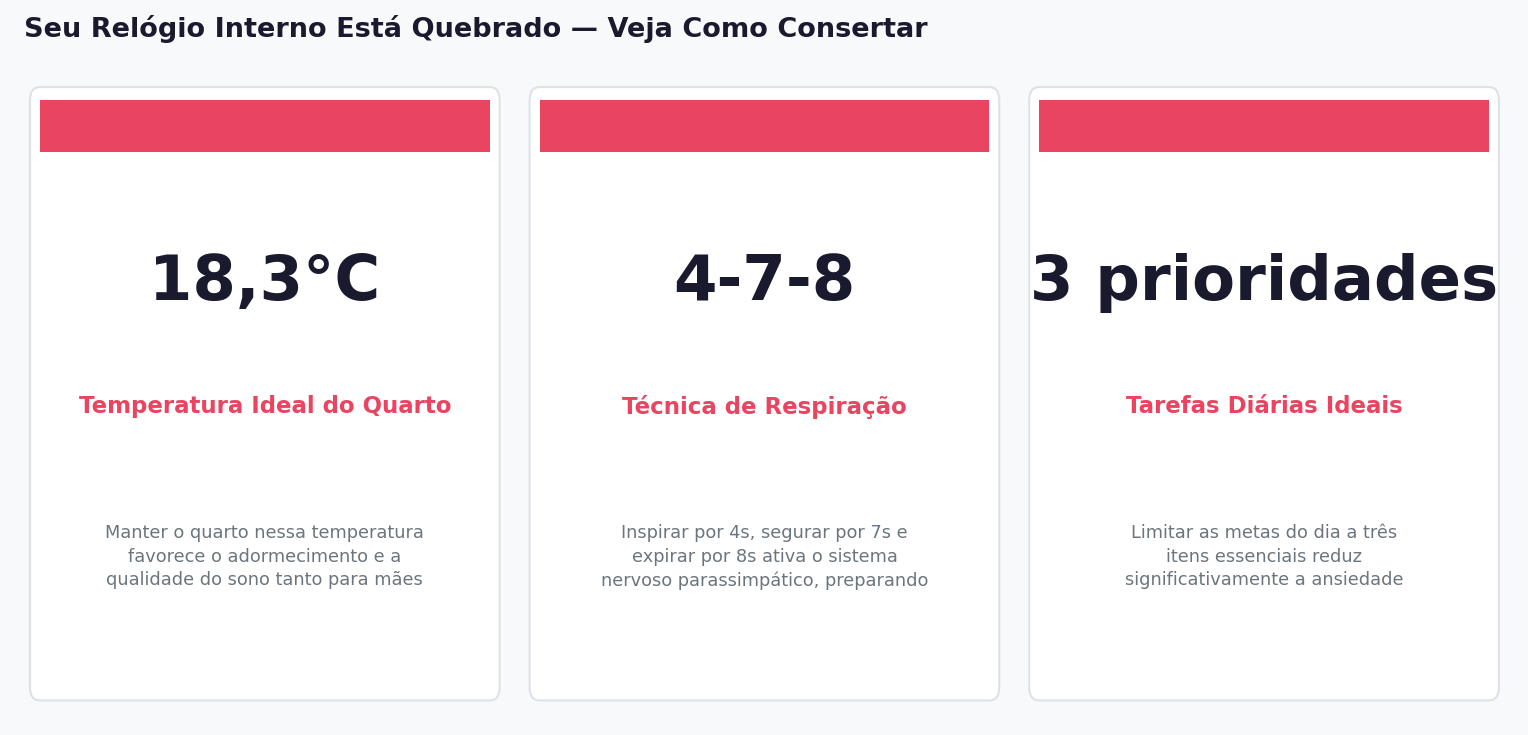
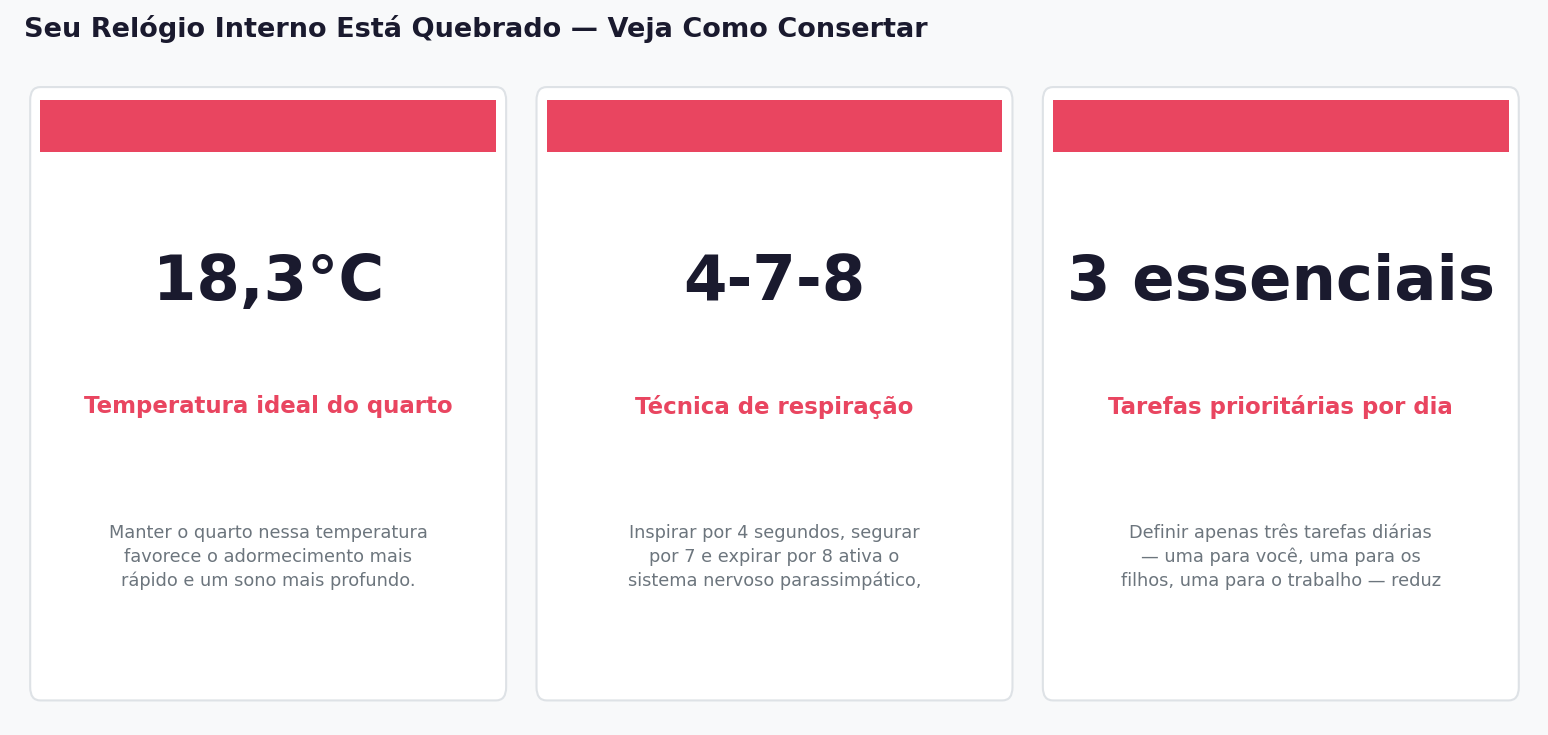
Add: Seu Relógio Interno Está Quebrado — Veja Como Consertar

diff --git a/2026-05-01-seu-relogio-interno-esta-quebrado-veja-como-consertar.html b/2026-05-01-seu-relogio-interno-esta-quebrado-veja-como-consertar.html
@@ -189,7 +189,7 @@
     <main class="body-card">
 
       <!-- Hook -->
-      <p class="hook">Imagine que o seu corpo tem um relógio interno — sofisticado, preciso, ajustado por milhões de anos de evolução. Agora imagine que alguém jogou esse relógio no chão, pisou em cima e foi embora. É exatamente isso que a rotina caótica da maternidade faz com o seu ciclo circadiano. A boa notícia: com alguns ajustes estratégicos, você consegue recalibrar esse relógio — mesmo com uma criança pequena em casa.</p>
+      <p class="hook">Imagine que seu corpo é uma orquestra: quando o maestro perde o ritmo, cada músico toca no seu próprio tempo, e o resultado é caos. É exatamente isso que acontece quando o ciclo circadiano — o relógio biológico interno que regula sono, hormônios e energia — se desregula. Para mães que vivem entre fraldas, reuniões e listas intermináveis de tarefas, esse caos silencioso pode ser a raiz de um cansaço que nenhuma xícara de café consegue resolver.</p>
 
       <!-- Divider -->
       <div class="divider">
@@ -200,30 +200,30 @@
       <!-- Insights -->
       
       <div class="insight">
-        <h2>O Que é o Ciclo Circadiano e Por Que Ele Importa Para Você</h2>
-        <p>O ciclo circadiano é um ritmo biológico de aproximadamente 24 horas coordenado por uma pequena estrutura no cérebro chamada núcleo supraquiasmático. Ele regula temperatura corporal, produção de hormônios como melatonina e cortisol, sono e vigília. Pense nele como o maestro de uma orquestra: quando ele está em sincronia, tudo flui. Quando ele desafina, o caos se instala.
+        <h2>O que é o ciclo circadiano e por que ele importa para você</h2>
+        <p>O ciclo circadiano é um ritmo biológico de aproximadamente 24 horas, coordenado por uma pequena estrutura no cérebro chamada núcleo supraquiasmático. Pense nele como um termostato interno que programa quando você deve sentir sono, quando seu metabolismo acelera e quando seus hormônios entram em ação. O problema é que esse sistema é extremamente sensível a mudanças de rotina — e a maternidade é, por definição, uma grande mudança de rotina.
 
-Quando esse ritmo é desregulado — o que acontece com frequência na maternidade, entre noites interrompidas, mamadas e demandas sem fim — as consequências vão muito além do cansaço. Estudos apontam que a desregulação circadiana está associada a depressão, ansiedade, problemas de memória e até risco aumentado de doenças crônicas como diabetes e obesidade.
+Quando o ciclo circadiano é perturbado de forma consistente — por noites mal dormidas, horários irregulares de sono ou excesso de luz artificial à noite — as consequências vão muito além do cansaço. Estudos associam a desregulação circadiana a problemas de memória, alterações de humor, ansiedade, e até maior risco de doenças crônicas como diabetes e depressão. Ou seja: não é frescura, é fisiologia.
 
-O gatilho mais poderoso para sincronizar esse relógio é simples e gratuito: a luz solar pela manhã. A exposição à luz natural ativa receptores nos olhos que sinalizam ao cérebro que é hora de despertar e iniciar as funções do dia. Então, mesmo que você tenha dormido mal, abrir as janelas ou dar uma caminhada curta logo cedo pode ser o primeiro passo para reconectar seu corpo ao ritmo natural da vida.</p>
+A boa notícia é que o relógio interno responde muito bem a sinais simples do ambiente — e você pode começar a reajustá-lo hoje, sem precisar de grandes mudanças. Luz solar pela manhã, horários regulares para deitar e acordar, e uma rotina de relaxamento antes de dormir são âncoras poderosas para esse sistema. São pequenos gestos, mas para o seu cérebro, são comandos claros.</p>
       </div>
       
       <div class="insight">
-        <h2>A Rotina que Ninguém Te Contou: Sincronize Seu Sono com o do Seu Filho</h2>
-        <p>Uma das estratégias mais contraintuitivas — e mais eficazes — para mães é observar os padrões de sono do filho e construir a própria rotina em torno deles. Se você perceber que seu bebê sempre cochila por volta das 14h durante 45 minutos, esse é o seu sinal para também se deitar. Dormir nos mesmos horários que seu filho não é preguiça — é uma decisão estratégica de saúde.
+        <h2>Sincronize seu sono com o do seu filho — e peça ajuda sem culpa</h2>
+        <p>Uma das estratégias mais subestimadas para mães é simples: dormir quando o bebê dorme. Parece óbvio, mas a realidade é que muitas mães usam esse tempo para lavar louça, responder e-mails ou finalmente sentar em silêncio com o celular. O problema é que o corpo não acumula repouso — cada hora de sono perdida é uma hora perdida de verdade.
 
-Além disso, especialistas reforçam que a qualidade dos cochilos do seu bebê influencia diretamente a flexibilidade da sua rotina noturna. Quanto melhor ele dorme de dia, mais tarde pode ser o horário de dormir à noite — o que te dá margem para adaptar a rotina à realidade de uma mãe que trabalha. Criar um ambiente propício ao descanso do bebê (quarto escuro, temperatura em torno de 18°C, som ambiente calmo) é investir no seu próprio sono também.
+Além de alinhar seus cochilos aos do seu filho, observar os padrões de sono dele é uma ferramenta poderosa. Ao identificar em que horários ele costuma adormecer e por quanto tempo dura o cochilo, você pode organizar sua própria rotina em torno desses janelas de descanso. E quanto melhor forem os cochilos do seu bebê — em qualidade e previsibilidade — mais flexível e descansada pode ser a sua noite.
 
-Um aviso importante: consistência é a palavra-chave. Ir para a cama em horários muito diferentes de uma noite para outra desequilibra o ciclo circadiano tanto quanto não dormir. O corpo aprende com a repetição — e uma rotina previsível reduz a ansiedade, para você e para seu filho.</p>
+Dividir as tarefas noturnas com o parceiro ou parceira não é um pedido de ajuda: é uma decisão de saúde. Pedir que alguém nina o bebê após a amamentação ou troque uma fralda de madrugada não diminui ninguém — pelo contrário, protege a saúde mental de quem cuida. Afinal, mãe descansada cuida melhor.</p>
       </div>
       
       <div class="insight">
-        <h2>Três Alavancas Práticas: Movimento, Ritual e Delegação</h2>
-        <p>Exercício diário — mesmo que seja uma caminhada curta com o carrinho de bebê — tem impacto comprovado na qualidade do sono. A atividade física reduz cortisol (o hormônio do estresse), libera endorfinas e ajuda o corpo a sentir a diferença entre dia e noite. Não precisa ser academia: brincar no parque com as crianças conta como movimento.
+        <h2>Crie sinais claros para o seu corpo: é hora de dormir</h2>
+        <p>O corpo humano não muda de marcha instantaneamente — ele precisa de uma rampa de desaceleração. É por isso que criar uma rotina de relaxamento antes de dormir é uma das recomendações mais consistentes da ciência do sono. Pode ser uma respiração lenta (a técnica 4-7-8 — inspire por 4, segure por 7, expire por 8 — é surpreendentemente eficaz), um chá de camomila, leitura leve ou alongamento suave. O ritual não precisa ser longo: 15 a 20 minutos já são suficientes para sinalizar ao cérebro que chegou a hora.
 
-Criar um ritual noturno de desaceleração é igualmente poderoso. Escolha algo que funcione para você — leitura, respiração lenta (a técnica 4-7-8 é simples: inspire por 4 segundos, segure por 7, expire por 8), chá de camomila ou erva-cidreira, meditação guiada de 5 minutos. O objetivo é mandar um sinal claro para o seu sistema nervoso: 'o trabalho acabou, é hora de descansar'. Evite telas com luz azul, alimentos gordurosos e cafeína nas horas antes de dormir.
+O ambiente também faz parte desse sinal. Apagar as luzes do quarto antes de dormir não é apenas uma questão de conforto — a escuridão dispara a produção de melatonina, o hormônio que induz o sono. Da mesma forma, evitar telas nesse período e manter a temperatura do quarto em torno de 18°C cria condições físicas favoráveis para um sono mais profundo e reparador.
 
-Por fim, a estratégia mais subestimada: delegar. Dividir as tarefas noturnas com o parceiro ou parceira — ninar o bebê após a amamentação, trocar fraldas — não é pedir favor, é manutenção básica da sua saúde. Uma mãe descansada cuida melhor, pensa melhor e vive melhor. E para as tarefas do dia a dia, experimente a 'regra dos três': defina apenas três prioridades diárias (uma para você, uma para os filhos, uma para o trabalho) e vá para a cama sabendo que fez o essencial.</p>
+E uma dica bônus para quem amamenta: a amamentação libera ocitocina, o 'hormônio do amor', que causa relaxamento e reduz o cortisol — o hormônio do estresse. Amamentar logo antes de dormir pode ser, literalmente, uma dose natural de tranquilidade. Use isso a seu favor.</p>
       </div>
       
 
@@ -240,15 +240,15 @@ Por fim, a estratégia mais subestimada: delegar. Dividir as tarefas noturnas co
         <p class="section-label">Key Numbers</p>
         
         <p class="data-point">
-          <strong>18,3°C — Temperatura Ideal do Quarto:</strong> Manter o quarto nessa temperatura favorece o adormecimento e a qualidade do sono tanto para mães quanto para bebês.
+          <strong>18,3°C — Temperatura ideal do quarto:</strong> Manter o quarto nessa temperatura favorece o adormecimento mais rápido e um sono mais profundo.
         </p>
         
         <p class="data-point">
-          <strong>4-7-8 — Técnica de Respiração:</strong> Inspirar por 4s, segurar por 7s e expirar por 8s ativa o sistema nervoso parassimpático, preparando o corpo para o sono em minutos.
+          <strong>4-7-8 — Técnica de respiração:</strong> Inspirar por 4 segundos, segurar por 7 e expirar por 8 ativa o sistema nervoso parassimpático, reduzindo a ansiedade antes de dormir.
         </p>
         
         <p class="data-point">
-          <strong>3 prioridades — Tarefas Diárias Ideais:</strong> Limitar as metas do dia a três itens essenciais reduz significativamente a ansiedade noturna e melhora a qualidade do sono.
+          <strong>3 essenciais — Tarefas prioritárias por dia:</strong> Definir apenas três tarefas diárias — uma para você, uma para os filhos, uma para o trabalho — reduz a ansiedade noturna e melhora a qualidade do sono.
         </p>
         
       </div>
@@ -256,13 +256,13 @@ Por fim, a estratégia mais subestimada: delegar. Dividir as tarefas noturnas co
       <!-- Takeaway -->
       <div class="takeaway">
         <p class="section-label">The Takeaway</p>
-        <p>O seu corpo não é uma máquina que pode ignorar sinais de exaustão indefinidamente — ele tem um relógio biológico que precisa de consistência, luz e descanso para funcionar. Regularizar o ciclo circadiano não exige perfeição nem grandes mudanças de uma vez: começa com pequenos gestos repetidos todo dia, como abrir as janelas pela manhã, criar um ritual noturno e aceitar ajuda. Cuidar do seu sono não é um luxo — é o alicerce de tudo mais que você faz.</p>
+        <p>Seu cansaço tem uma causa biológica identificável — e ela pode ser tratada com consistência, não com sacrifício. Regulando os sinais que seu corpo recebe (luz, horários, rituais e suporte de quem está ao seu lado), você pode reconectar seu relógio interno e começar a dormir de verdade. Você não precisa de mais horas no dia — precisa de melhores horas na cama.</p>
       </div>
 
       <!-- CTA -->
       <div class="cta-section">
-        <p>Escolha uma das estratégias desta newsletter e aplique hoje à noite — não amanhã, hoje.</p>
-        <a href="#" class="cta-button">Comece pelo seu ritual noturno</a>
+        <p>Escolha um ritual de 15 minutos para experimentar esta noite — respiração, chá ou leitura — e anote como você se sente amanhã de manhã.</p>
+        <a href="https://quinello.github.io/newsletter-archive/2026-05-01-seu-relogio-interno-esta-quebrado-veja-como-consertar.html" class="cta-button">Comece sua rotina de sono</a>
       </div>
 
     </main>
@@ -274,17 +274,17 @@ Por fim, a estratégia mais subestimada: delegar. Dividir as tarefas noturnas co
         
         <li><a href="https://www.mothermag.com/sleep-tips-for-busy-moms/" target="_blank" rel="noopener">10 Sleep Tips for Busy Moms - With Yogasleep</a></li>
         
-        <li><a href="https://www.noomana.com.br/conteudos/privacao-do-sono-na-maternidade/" target="_blank" rel="noopener">Como lidar com a privação do sono na maternidade? - noomana</a></li>
-        
-        <li><a href="https://alemdapsiquiatria.com/ciclo-circadiano-luz-alimentacao-exercicio-psiquiatra-em-bh/" target="_blank" rel="noopener">Como Regular o Ciclo Circadiano: Luz, Alimentação e Exercício</a></li>
+        <li><a href="https://www.noomana.com.br/conteudos/privacao-do-sono-na-maternidade/" target="_blank" rel="noopener">Como lidar com a privação do sono na maternidade? - Noomana</a></li>
         
         <li><a href="https://www.tuasaude.com/ciclo-circadino/" target="_blank" rel="noopener">Ciclo circadiano: o que é, como funciona (e como regular) - Tua Saúde</a></li>
         
         <li><a href="https://www.metropoles.com/saude/confira-6-dicas-uteis-para-maes-dormirem-melhor" target="_blank" rel="noopener">Confira 6 dicas úteis para mães dormirem melhor - Metrópoles</a></li>
         
-        <li><a href="https://vocesa.abril.com.br/coluna/camila-antunes/como-gerenciar-o-tempo-entre-filhos-e-carreira-para-vida-nao-ser-exaustiva/" target="_blank" rel="noopener">Como gerenciar o tempo entre filhos e carreira - VOCÊ S/A</a></li>
+        <li><a href="https://alemdapsiquiatria.com/ciclo-circadiano-luz-alimentacao-exercicio-psiquiatra-em-bh/" target="_blank" rel="noopener">Como Regular o Ciclo Circadiano: Luz, Alimentação e Exercício</a></li>
         
-        <li><a href="https://lizandroo.com/blogs/news/how-to-sleep-train-a-baby-when-you-re-a-working-mom" target="_blank" rel="noopener">How to Sleep-Train a Baby When You're a Working Mom – Liz and Roo</a></li>
+        <li><a href="https://lizandroo.com/blogs/news/how-to-sleep-train-a-baby-when-you-re-a-working-mom" target="_blank" rel="noopener">Como Sleep-Train um Bebê Sendo Mãe Trabalhadora - Liz and Roo</a></li>
+        
+        <li><a href="https://vocesa.abril.com.br/coluna/camila-antunes/como-gerenciar-o-tempo-entre-filhos-e-carreira-para-vida-nao-ser-exaustiva/" target="_blank" rel="noopener">Como gerenciar o tempo entre filhos e carreira - Você S/A</a></li>
         
       </ul>
     </footer>
